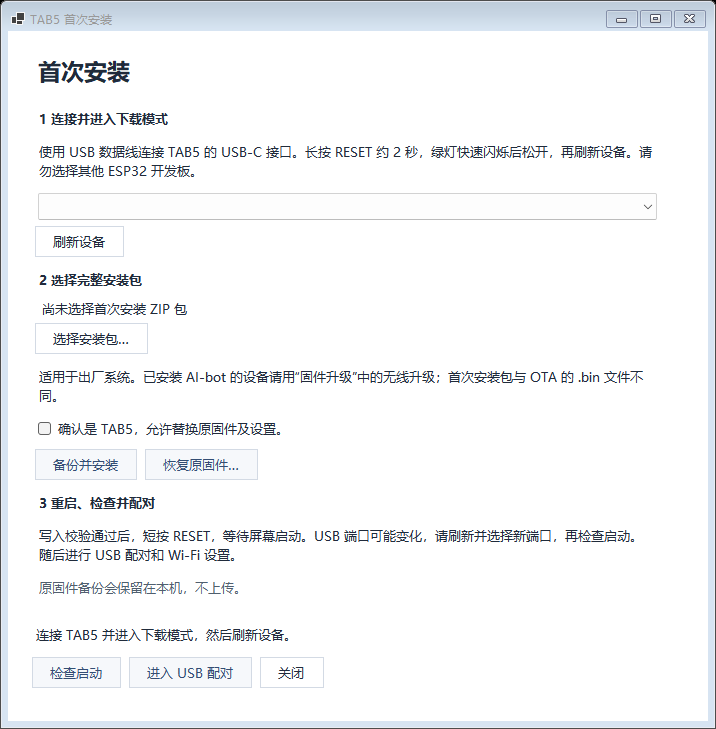
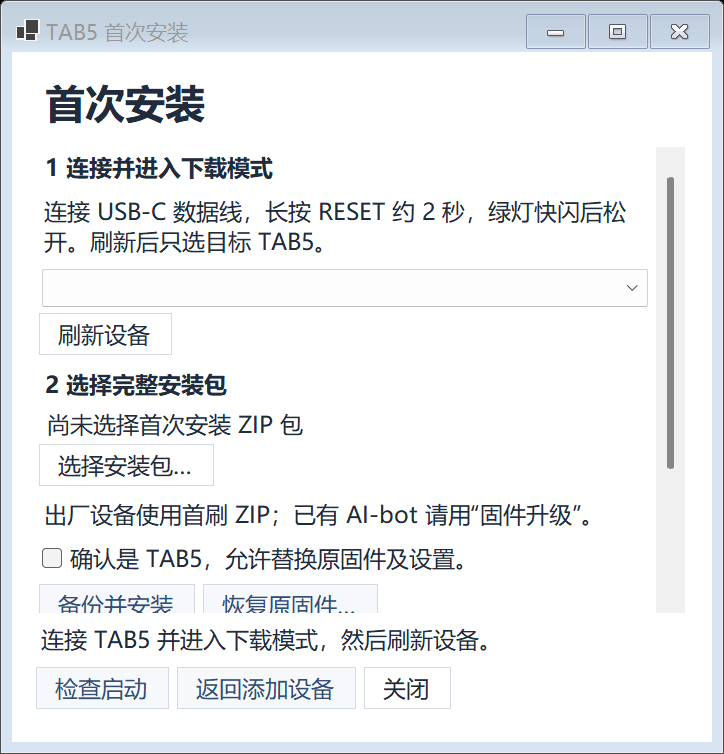
docs(release): publish 0.6.13 downloads and verified acceptance boundaries

Changed region(s): [[0.0, 0.0, 1.0, 0.9959], [0.8911, 0.2414, 0.9525, 0.6337], [0.3994, 0.6639, 0.7989, 0.6941]]

diff --git a/scripts/check_public_content.py b/scripts/check_public_content.py
@@ -158,6 +158,7 @@ REVIEWED_PRODUCT_MEDIA = frozenset({
     "docs/assets/product-intro/AI-bot-cover.png",
     "docs/assets/product-intro/AI-bot-cover-4x3.png",
     "docs/assets/product-intro/AI-bot-cover-3x4.png",
+    "docs/assets/product-intro/AI-bot-onboarding-cover.png",
 })
 
 REVIEWED_PET_MEDIA = frozenset({

diff --git a/README.en.md b/README.en.md
@@ -4,9 +4,9 @@
 
 Beyond work, AI-bot serves as a desk clock and information display for weather, stocks, music and computer activity. Optional daily painting and calligraphy collections turn the TAB5 into an art display during quieter moments.
 
-[Complete download center](DOWNLOADS.en.md) · [Downloads and device pairing](#downloads-and-device-pairing) · [Installation guide](docs/INSTALL.zh.md) · [Release highlights and details](docs/RELEASE-0.6.12.md) · [简体中文](README.md)
+[Complete download center](DOWNLOADS.en.md) · [Downloads and device pairing](#downloads-and-device-pairing) · [Installation guide](docs/INSTALL.zh.md) · [Release highlights and details](docs/RELEASE-0.6.13.md) · [简体中文](README.md)
 
-This release: Windows **0.6.12**, Mac **0.6.11**, TAB5 **0.2.282-ui**, ESP8266 **0.5.7**. Windows refines account buttons and centers the TAB5 preview; TAB5 improves system alerts and diagnostic details. See [release details](docs/RELEASE-0.6.12.md).
+This release: both Windows and Mac bridges are **0.6.13**, with concise setup hints, a compact Add Device form and direct USB Pairing after adding TAB5 on Mac. TAB5 **0.2.282-ui** and ESP8266 **0.5.7** are unchanged. See [release details](docs/RELEASE-0.6.13.md).
 
 ## Choose your desktop display
 
@@ -126,8 +126,8 @@ Configure up to four app/folder launchers in Windows Device Center → TAB5 → 
 <!-- downloads:start -->
 | Use | Version | Download | SHA-256 |
 | --- | --- | --- | --- |
-| Windows bridge · Windows 10/11 x64 | 0.6.12 | [Download · 30 MiB](https://github.com/yaoyouzhong/AI-bot/releases/download/v0.6.12/AI-bot-bridge-v0.6.12-windows-x64-setup.exe) | [SHA-256](https://github.com/yaoyouzhong/AI-bot/releases/download/v0.6.12/SHA256SUMS.txt) |
-| Mac bridge · macOS 13+ / Apple Silicon | 0.6.11 | [Download · 17 MiB](https://github.com/yaoyouzhong/AI-bot/releases/download/v0.6.11/AI-bot-bridge-v0.6.11-macos-arm64.zip) | [SHA-256](https://github.com/yaoyouzhong/AI-bot/releases/download/v0.6.11/SHA256SUMS.txt) |
+| Windows bridge · Windows 10/11 x64 | 0.6.13 | [Download · 30 MiB](https://github.com/yaoyouzhong/AI-bot/releases/download/v0.6.13/AI-bot-bridge-v0.6.13-windows-x64-setup.exe) | [SHA-256](https://github.com/yaoyouzhong/AI-bot/releases/download/v0.6.13/SHA256SUMS.txt) |
+| Mac bridge · macOS 13+ / Apple Silicon | 0.6.13 | [Download · 17 MiB](https://github.com/yaoyouzhong/AI-bot/releases/download/v0.6.13/AI-bot-bridge-v0.6.13-macos-arm64.zip) | [SHA-256](https://github.com/yaoyouzhong/AI-bot/releases/download/v0.6.13/SHA256SUMS.txt) |
 | ESP8266 display · first install / upgrade | 0.5.7 | [Download · 30 MiB](https://github.com/yaoyouzhong/AI-bot/releases/download/esp8266-v0.5.7/AI-bot-esp8266-0.5.7-firmware.zip) | [SHA-256](https://github.com/yaoyouzhong/AI-bot/releases/download/esp8266-v0.5.7/SHA256SUMS.txt) |
 | TAB5 · first install from factory system | 0.2.282-ui | [Download · 5 MiB](https://github.com/yaoyouzhong/AI-bot/releases/download/tab5-v0.2.282-ui/AI-bot-tab5-0.2.282-ui-first-install.zip) | [SHA-256](https://github.com/yaoyouzhong/AI-bot/releases/download/tab5-v0.2.282-ui/SHA256SUMS.txt) |
 | TAB5 · upgrade existing AI-bot | 0.2.282-ui | [Download · 5 MiB](https://github.com/yaoyouzhong/AI-bot/releases/download/tab5-v0.2.282-ui/AI-bot-tab5-0.2.282-ui-upgrade.zip) | [SHA-256](https://github.com/yaoyouzhong/AI-bot/releases/download/tab5-v0.2.282-ui/SHA256SUMS.txt) |
@@ -156,9 +156,11 @@ For later updates, open Windows Device Center → Bridge Settings → Software/F
 
 ## Further reading
 
-- **Use and updates:** [Feature gallery](docs/FEATURES.zh.md) · [Changes by component](docs/RELEASE-0.6.12.md) · [Changelog](CHANGELOG.md) · [TAB5 hardware acceptance](docs/development/TAB5-CONTROL-215-ACCEPTANCE-20261017.md)
+- **Use and updates:** [Feature gallery](docs/FEATURES.zh.md) · [Changes by component](docs/RELEASE-0.6.13.md) · [Changelog](CHANGELOG.md) · [TAB5 hardware acceptance](docs/development/TAB5-CONTROL-215-ACCEPTANCE-20261017.md)
 - **Data and privacy:** [Data sources](docs/DATA_SOURCES.md) · [Quota-history boundaries](docs/QUOTA_TRENDS.md). Activity statistics extract local status and token metadata; account quotas come from provider interfaces and are counted separately.
 - **Development and source:** [Development guide](docs/DEVELOPMENT.md) · [Protocol](docs/PROTOCOL.md) · [TAB5 source and builds](docs/development/TAB5-SOURCE.md) · [Independent component versions](docs/COMPONENT-VERSIONS.md)
 - **Materials and licenses:** [Provenance](PROVENANCE.md) · [Third-party notices](THIRD_PARTY_NOTICES.md) · [Screenshots and art credits](docs/SCREENSHOTS.md) · [Optional pet animation pack](docs/assets/pet/README.md)
 
 Own code, including TAB5, is [MIT licensed](LICENSE). Third-party components and artworks retain their original licenses. This independent project has no affiliation with the named AI providers. [Report issues](https://github.com/yaoyouzhong/AI-bot/issues) with your platform, versions, hardware and reproduction steps; remove credentials and private logs.
+
+[First-device setup video](docs/ONBOARDING_VIDEO.md): Windows onboarding and the Mac USB Pairing path.

diff --git a/README.md b/README.md
@@ -4,9 +4,9 @@
 
 工作之外，它也是桌边的时钟与信息看板，按需展示天气、行情、音乐和电脑运行状态。TAB5 还可搭配每日名画、每日书法图库，让屏幕在闲暇时展示艺术作品。
 
-[完整下载中心](DOWNLOADS.md) · [下载与搭配](#下载与搭配) · [安装指南](docs/INSTALL.zh.md) · [本次更新明细](docs/RELEASE-0.6.12.md) · [English](README.en.md)
+[完整下载中心](DOWNLOADS.md) · [下载与搭配](#下载与搭配) · [安装指南](docs/INSTALL.zh.md) · [本次更新明细](docs/RELEASE-0.6.13.md) · [English](README.en.md)
 
-本次更新：Windows **0.6.12**、Mac **0.6.11**、TAB5 **0.2.282-ui**、ESP8266 **0.5.7**。Windows 调整账号数据按钮与 TAB5 预览居中；TAB5 改善系统告警和诊断详情。见[本轮说明](docs/RELEASE-0.6.12.md)。
+本次更新：Windows 与 Mac 桥接均为 **0.6.13**，精简首次接入提示、优化添加设备布局，并修复 Mac 新增 TAB5 后的 USB 配对入口。TAB5 **0.2.282-ui**、ESP8266 **0.5.7** 保持不变。见[本轮说明](docs/RELEASE-0.6.13.md)。
 
 ## 选择适合你的桌面屏幕
 
@@ -126,8 +126,8 @@ https://github.com/user-attachments/assets/219d758f-e3f9-4bf8-be64-641d01834922
 <!-- downloads:start -->
 | 用途 | 版本 | 下载 | SHA-256 |
 | --- | --- | --- | --- |
-| Windows 桥接 · Windows 10/11 x64 | 0.6.12 | [下载 · 30 MiB](https://github.com/yaoyouzhong/AI-bot/releases/download/v0.6.12/AI-bot-bridge-v0.6.12-windows-x64-setup.exe) | [SHA-256](https://github.com/yaoyouzhong/AI-bot/releases/download/v0.6.12/SHA256SUMS.txt) |
-| Mac 桥接 · macOS 13+ / Apple Silicon | 0.6.11 | [下载 · 17 MiB](https://github.com/yaoyouzhong/AI-bot/releases/download/v0.6.11/AI-bot-bridge-v0.6.11-macos-arm64.zip) | [SHA-256](https://github.com/yaoyouzhong/AI-bot/releases/download/v0.6.11/SHA256SUMS.txt) |
+| Windows 桥接 · Windows 10/11 x64 | 0.6.13 | [下载 · 30 MiB](https://github.com/yaoyouzhong/AI-bot/releases/download/v0.6.13/AI-bot-bridge-v0.6.13-windows-x64-setup.exe) | [SHA-256](https://github.com/yaoyouzhong/AI-bot/releases/download/v0.6.13/SHA256SUMS.txt) |
+| Mac 桥接 · macOS 13+ / Apple Silicon | 0.6.13 | [下载 · 17 MiB](https://github.com/yaoyouzhong/AI-bot/releases/download/v0.6.13/AI-bot-bridge-v0.6.13-macos-arm64.zip) | [SHA-256](https://github.com/yaoyouzhong/AI-bot/releases/download/v0.6.13/SHA256SUMS.txt) |
 | ESP8266 小屏 · 首刷／升级通用 | 0.5.7 | [下载 · 30 MiB](https://github.com/yaoyouzhong/AI-bot/releases/download/esp8266-v0.5.7/AI-bot-esp8266-0.5.7-firmware.zip) | [SHA-256](https://github.com/yaoyouzhong/AI-bot/releases/download/esp8266-v0.5.7/SHA256SUMS.txt) |
 | TAB5 · 出厂系统首次安装 | 0.2.282-ui | [下载 · 5 MiB](https://github.com/yaoyouzhong/AI-bot/releases/download/tab5-v0.2.282-ui/AI-bot-tab5-0.2.282-ui-first-install.zip) | [SHA-256](https://github.com/yaoyouzhong/AI-bot/releases/download/tab5-v0.2.282-ui/SHA256SUMS.txt) |
 | TAB5 · 已有 AI-bot 升级 | 0.2.282-ui | [下载 · 5 MiB](https://github.com/yaoyouzhong/AI-bot/releases/download/tab5-v0.2.282-ui/AI-bot-tab5-0.2.282-ui-upgrade.zip) | [SHA-256](https://github.com/yaoyouzhong/AI-bot/releases/download/tab5-v0.2.282-ui/SHA256SUMS.txt) |
@@ -154,9 +154,11 @@ https://github.com/user-attachments/assets/219d758f-e3f9-4bf8-be64-641d01834922
 
 以后从 Windows「设备中心 → 桥接设置 → 软件固件」打开「**软件与固件更新**」查看三个组件各自的更新明细、下载并校验，再按提示安装。启用「自动检查并提醒」后会通知新版本，安装仍由你确认。图库按需单独下载与导入。[完整更新步骤](docs/UPDATES.md)
 
+[首次添加设备短片](docs/ONBOARDING_VIDEO.md)：Windows 接入入口与 Mac USB 配对路径。
+
 ## 更多资料
 
-- **使用与更新：** [完整功能图鉴](docs/FEATURES.zh.md) · [本次更新明细](docs/RELEASE-0.6.12.md) · [更新日志](CHANGELOG.zh.md) · [TAB5 真机验收](docs/development/TAB5-CONTROL-215-ACCEPTANCE-20261017.md)
+- **使用与更新：** [完整功能图鉴](docs/FEATURES.zh.md) · [本次更新明细](docs/RELEASE-0.6.13.md) · [更新日志](CHANGELOG.zh.md) · [TAB5 真机验收](docs/development/TAB5-CONTROL-215-ACCEPTANCE-20261017.md)
 - **数据与隐私：** [数据来源](docs/DATA_SOURCES.md) · [额度趋势统计边界](docs/QUOTA_TRENDS.md)。活动统计提取本地状态与 Token 元数据，账户额度来自厂商接口，两者分开统计。
 - **开发与源码：** [开发说明](docs/DEVELOPMENT.md) · [协议](docs/PROTOCOL.md) · [TAB5 源码与构建](docs/development/TAB5-SOURCE.md) · [组件独立版本](docs/COMPONENT-VERSIONS.md)
 - **素材与许可：** [来源记录](PROVENANCE.md) · [第三方声明](THIRD_PARTY_NOTICES.md) · [截图与作品署名](docs/SCREENSHOTS.md) · [可选桌宠动画包](docs/assets/pet/README.md)

diff --git a/docs/FEATURES.zh.md b/docs/FEATURES.zh.md
@@ -1,6 +1,6 @@
 # 功能与界面图鉴
 
-当前 Windows **0.6.12**、Mac **0.6.11**、TAB5 **0.2.282-ui**、ESP8266 **0.5.7**。两类图库各 366 件；公开内容版次均为 **2026.1**，提供标准与高清完整版；[内部包编号保留](GALLERY-VERSIONS.md)。[本版范围与验收](RELEASE-0.6.12.md) · [高清图库安装](GALLERY-HD.md) · [截图来源](SCREENSHOTS.md)
+当前 Windows **0.6.13**、Mac **0.6.13**、TAB5 **0.2.282-ui**、ESP8266 **0.5.7**。两类图库各 366 件；公开内容版次均为 **2026.1**，提供标准与高清完整版；[内部包编号保留](GALLERY-VERSIONS.md)。[本版范围与验收](RELEASE-0.6.13.md) · [高清图库安装](GALLERY-HD.md) · [截图来源](SCREENSHOTS.md)
 
 AI-bot 把 AI 任务状态、账户额度和日常信息放到桌边。先看两类设备的整体用法，再看各自重点，完整页面可按场景展开。
 
@@ -320,7 +320,7 @@ Windows 右键托盘打开菜单：**设备中心**是统一入口，**设备预
 
 ### Mac 原生界面 / Native Mac interfaces
 
-Mac **0.6.11 正式版**从菜单栏 AI-bot 图标进入：左键打开设备中心，右键展开下方菜单。**设备预览**在双设备时先选择 ESP8266 或 TAB5；后面的设备分组提供各自的设置入口。Windows 从托盘进入，以上 Windows 窗口保留各自平台标注。[Mac 安装与配对](INSTALL.zh.md#mac)
+Mac **0.6.13 正式版**从菜单栏 AI-bot 图标进入：左键打开设备中心，右键展开下方菜单。**设备预览**在双设备时先选择 ESP8266 或 TAB5；后面的设备分组提供各自的设置入口。Windows 从托盘进入，以上 Windows 窗口保留各自平台标注。[Mac 安装与配对](INSTALL.zh.md#mac)
 
 <a href="assets/screens/mac-menu.png"><img src="assets/screens/mac-menu.png" width="250" alt="Mac 原生 AI-bot 菜单：设备中心、设备预览与双设备分组，演示数据"></a>
 
@@ -421,11 +421,11 @@ Windows 0.6.9 + TAB5 217 provide volume/mute/lock, actual lock state and four lo
 | TAB5 0.2.282-ui | 电脑控制、十网络、横屏翻转、时钟、图库、日程与存储 | 282 的系统告警、诊断、检测详情与返回操作经用户实机确认；217 精确镜像启动、215 控制／锁屏／无闪动及拔 USB 后 Wi-Fi 音量获确认；210 的日程、内存和重启验收沿用；满额腾位、BLE 整包 OTA 和长期运行不扩大验收结论。 |
 | macOS 13+ Apple Silicon | 菜单栏、镜像、ESP8266 与对应平台功能 | CI 测试／构建通过；现支持 TAB5 连接、控制、预览、固件和图库管理；授权及语音来源按平台区分。Intel Mac 未验证。 |
 
-[发布明细](RELEASE-0.6.12.md) · [截图来源与复现](SCREENSHOTS.md) · [开发参考](REFERENCE.zh.md)
+[发布明细](RELEASE-0.6.13.md) · [截图来源与复现](SCREENSHOTS.md) · [开发参考](REFERENCE.zh.md)
 
 ## English summary
 
-AI-bot puts AI activity, account quotas and everyday information on a desktop display. This guide covers Windows 0.6.12, Mac 0.6.11, ESP8266 0.5.7 and TAB5 0.2.282-ui, plus two independent 366-work annual collections. Browse past works on the computer; select TF storage explicitly for complete-library caching and read complete long originals on the supporting firmware. Start with the device overview, then follow the matching device tour.
+AI-bot puts AI activity, account quotas and everyday information on a desktop display. This guide covers Windows 0.6.13, Mac 0.6.13, ESP8266 0.5.7 and TAB5 0.2.282-ui, plus two independent 366-work annual collections. Browse past works on the computer; select TF storage explicitly for complete-library caching and read complete long originals on the supporting firmware. Start with the device overview, then follow the matching device tour.
 
 **TAB5:** overview and the four main navigation tabs come first. Highlights cover Codex Direct and task reading, Annual Dots and the floral calendar, and landscape/portrait art. Expand the grouped galleries for activity/history, voice/camera drafts, quotas and API balances, current/hourly/seven-day weather, markets, computer metrics, music, nine clock faces, calendar, pets and all settings panels, including independent Storage Management. Voice results and camera attachments enter drafts; sending is explicit. Art screensavers support portrait rotation; normal system pages remain landscape and can automatically flip 180 degrees with touch following. Art collections are optional downloads.
 

diff --git a/docs/development/RELEASE-0613-CLOSEOUT-20261028.md b/docs/development/RELEASE-0613-CLOSEOUT-20261028.md
@@ -1,0 +1,34 @@
+# 0.6.13 双平台发布验证
+
+2026-10-28，接续首次设备接入任务。正式发布：[AI-bot v0.6.13](https://github.com/yaoyouzhong/AI-bot/releases/tag/v0.6.13)。北京时间 13:06 发布，Windows x64 与 Apple Silicon Mac 同步更新；TAB5 0.2.282-ui、ESP8266 0.5.7 和图库沿用现有附件。
+
+## 源码与安装包
+
+- 带注释的标签 `v0.6.13` 指向 `031b4f06197be876098aa2d55142d6c83f23bd53`，对应已合并 PR #10。
+- [CI 40632246118](https://github.com/yaoyouzhong/AI-bot/actions/runs/40632246118)：Windows、macOS（含完整 XCTest）和固件全部成功。
+- [Release 40632266014](https://github.com/yaoyouzhong/AI-bot/actions/runs/40632266014)：验证、Windows 包、Mac 包、草稿上传成功；固件打包按本轮范围跳过。
[2 lines of base64/hex data omitted]
+- 已验证的安装包字节保持不变；后续仅同步文档、截图、下载索引和媒体证据。
+
+## Windows Sandbox
+
[1 lines of base64/hex data omitted]
+
+实际启动安装后的程序，看到空设备中心；点击添加首台设备，打开 TAB5 首装窗口，再关闭回到添加窗口。无 USB 时验证禁用，首装入口、帮助、状态与关闭入口可见。本轮未连接或改写任何实体设备。
+
+安装日志同时报告 `Computer unlock setup incomplete`。解锁配置、无运行时的自动下载补装链路不计通过；本次未运行 Mac 安装包，Mac 原生界面和源码检查沿用已有记录。真实首刷、新配对和实体屏首次显示未重验，理由及此前结果见[首次接入记录](FIRST-RUN-20261028.md)。
+
+本地证据位于发布 worktree 的 `artifacts/release-0613/`：`sandbox-results/` 含安装日志、真实退出码、安装版本、DLL 摘要和隔离控件图；`downloads/` 与 `verified-downloads/` 保存已校验包。
+
+## 公开内容与媒体
+
+下载索引 refresh/sync/check 通过；全部七类包的公开地址、SHA 清单和大小，以及高清图库 manifest 一致。中英文主页、下载中心、安装指南、组件版本、功能图鉴、更新步骤与截图来源同步为实际发布范围。两张 Windows 接入图保留原生控件像素，Mac 旧图保留原始来源标注。
+
+20 秒接入补充短片及可复现工程已作为 Release 附件发布；它使用 Windows 原生隔离控件和明确标注的 Mac 路径示意。原项目介绍片保留在主页和独立观看入口。
+
+本轮 Chrome 主页和独立页播放器持续缓冲，时间为 0、readyState 为 0；备用浏览器也复现缓冲。原项目视频公开链接的小 Range 返回 HTTP 206、video/mp4 和正确总大小，但这不证明实际播放。短片 Release 直接地址被浏览器按下载处理／拦截导航，不计网页播放通过。播放、暂停、拖动、结束和重播仍待补验；不能把文件解码、上传或 HTTP 成功替代这些结果。
+
+## English
+
+Windows and Apple Silicon Mac 0.6.13 were published from commit `031b4f0`; CI and both desktop package jobs passed. Exact package hashes, Mac archive metadata/licenses, Windows Sandbox installation and installed status/onboarding checks passed. Real Windows navigation through Add TAB5 and First Install was exercised without hardware writes. Unlock setup remained incomplete; automatic runtime download, this Mac package's execution and new physical first-flash/pair/display acceptance are not claimed. Public downloads and bilingual documentation were reconciled. Both browser surfaces still buffered the retained project video, so full playback acceptance remains open despite successful HTTP Range verification.

diff --git a/docs/COMPONENT-VERSIONS.md b/docs/COMPONENT-VERSIONS.md
@@ -2,18 +2,18 @@
 
 桥接、ESP8266 和 TAB5 分别更新，不要求三个版本号相同。只修改一个组件时，不重编号、重发或要求用户重刷另外两个组件。历史 `v0.5.0` 标签与已发布文件保持不变。
 
-2026-10-27 本轮：Windows **0.6.12**、Mac **0.6.11**、TAB5 **0.2.282-ui**、ESP8266 **0.5.7**，图库沿用既有版本。下载索引按实际附件刷新。见[本轮说明](RELEASE-0.6.12.md)。
+2026-10-28 本轮：Windows **0.6.13**、Mac **0.6.13**、TAB5 **0.2.282-ui**、ESP8266 **0.5.7**，图库沿用既有版本。下载索引按实际附件刷新。见[本轮说明](RELEASE-0.6.13.md)。
 
 ## 版本来源
 
 | 组件 | 当前版本 | 版本文件 | 正式组件标签 |
 | --- | --- | --- | --- |
-| Windows 桥接 | 0.6.12 | 根目录 `VERSION` | `v0.6.12` |
-| Mac 桥接 | 0.6.11 | 根目录 `VERSION` | `v0.6.11` |
+| Windows 桥接 | 0.6.13 | 根目录 `VERSION` | `v0.6.13` |
+| Mac 桥接 | 0.6.13 | 根目录 `VERSION` | `v0.6.13` |
 | ESP8266 固件 | 0.5.7 | `firmware/VERSION` | `esp8266-v0.5.7` |
 | TAB5 固件 | 0.2.282-ui | `versions/TAB5` | `tab5-v0.2.282-ui` |
 
-表中登记各平台实际已发布版本；后续版本仍分别编号。`release-manifest.json` 登记每个组件的版本文件、标签前缀与中英文更新日志。桥接源码元数据共用版本线，正式下载按平台实际存在的附件分别取版本；Mac 包含 TAB5 支持，保持已发布的 0.6.11；Windows 本次单独更新。
+表中登记各平台实际已发布版本；后续版本仍分别编号。`release-manifest.json` 登记每个组件的版本文件、标签前缀与中英文更新日志。桥接源码元数据共用版本线，正式下载按平台实际存在的附件分别取版本；本次 Windows 与 Mac 同时发布 0.6.13，后续仍可分别交付。
 
 上一轮 2026-10-16 的范围为桥接 0.6.7、TAB5 0.2.205-ui、ESP8266 0.5.3、标准书法 2026.10.15.1 和两套高清完整图库 2026.10.16。标准名画沿用已有正式下载；不集成浏览器高清音乐封面扩展。构建、打包、公开附件和真机验收分别记录，公开下载索引仅在附件实际发布后刷新。The October 16 delivery covers bridge 0.6.7, TAB5 0.2.205-ui, ESP8266 0.5.3, standard calligraphy 2026.10.15.1 and both optional complete HD collections 2026.10.16. Existing standard painting remains unchanged; the browser music-artwork extension is not integrated. See [scope and acceptance boundaries](RELEASE-0.6.7.md).
 
@@ -21,7 +21,7 @@
 
 `versions/TAB5` 登记待发布镜像版本，不替代独立 TAB5 工程的镜像内版本；发布前核对其应用、sidecar、首刷包与公开源码身份。TAB5 本地候选仍由[固定固件工作流](TAB5-FIRMWARE-WORKFLOW.md)管理。
 
-此前桥接 `0.6.6` 与 TAB5 `0.2.194-ui` 的实际交付保留在[历史说明](RELEASE-0.6.6.md)。本轮范围及验收见 [0.6.12／282 说明](RELEASE-0.6.12.md)，上轮见 [0.6.11／281 说明](RELEASE-0.6.11.md)，此前结果保留在 [0.6.7／205 历史说明](RELEASE-0.6.7.md)。字库随 TAB5 固件安装，年度精选名画与书法各 366 件以独立图文包提供，旧图库保持兼容。The three independently versioned components and optional collections retain separate verification and acceptance records.
+此前桥接 `0.6.6` 与 TAB5 `0.2.194-ui` 的实际交付保留在[历史说明](RELEASE-0.6.6.md)。本轮范围及验收见 [0.6.13 双平台桥接说明](RELEASE-0.6.13.md)，上轮见 [0.6.11／281 说明](RELEASE-0.6.11.md)，此前结果保留在 [0.6.7／205 历史说明](RELEASE-0.6.7.md)。字库随 TAB5 固件安装，年度精选名画与书法各 366 件以独立图文包提供，旧图库保持兼容。The three independently versioned components and optional collections retain separate verification and acceptance records.
 
 桥接与历史组合版的发布展示标题统一使用 `AI-bot v版本号`，例如 `AI-bot v0.6.7`；功能说明放在正文。ESP8266 和 TAB5 保留各自命名方式，固件版本值和新包名不加 `v`。电脑端 Git 发布标签统一为 `vX.Y.Z`；固件保留组件前缀。后续构建物和旧客户端兼容规则见[命名规范](NAMING-CONVENTIONS.md)。
 

diff --git a/docs/RELEASE-0.6.13.md b/docs/RELEASE-0.6.13.md
@@ -9,9 +9,11 @@
 
 ## 验证边界
 
-Windows 接入选择、失败处理、窗口尺寸和缩放已通过隔离检查。Mac 导航修复通过 Release 构建、3034 项独立检查及原生窗口核验；完整 XCTest 由 GitHub macOS CI 执行。本机 Mac Command Line Tools 缺少 XCTest 的失败记录及三类既有编译警告保留在 [Mac 检查记录](development/MAC-ONBOARDING-REVIEW-20261028.md)。
+Windows 接入选择、失败处理、窗口尺寸和缩放已通过隔离检查。Mac 导航修复通过 Release 构建、3034 项独立检查及原生窗口核验；发布提交 `031b4f0` 的 [Windows、macOS、固件 CI](https://github.com/yaoyouzhong/AI-bot/actions/runs/40632246118) 全部成功，完整 XCTest 已由 macOS CI 补验。[双平台打包](https://github.com/yaoyouzhong/AI-bot/actions/runs/40632266014) 也全部成功。本机 Mac Command Line Tools 缺少 XCTest 的失败记录及三类既有编译警告保留在 [Mac 检查记录](development/MAC-ONBOARDING-REVIEW-20261028.md)。
 
-早期 Windows Sandbox 安装结果见[首次接入记录](development/FIRST-RUN-20261028.md)，与本次包的发布验证分开记录。没有备用出厂设备，本轮不重做真实首刷、重新配对或实体屏首次显示验收。Windows 安装器未签名；Mac 仅支持 Apple Silicon、临时签名且未公证。
+本次 0.6.13 安装器经完整下载及 SHA-256 核验，在已准备 .NET Desktop Runtime 的 Windows Sandbox 中安装退出 0，安装后 `--status-once` 与 `--self-test-onboarding` 均退出 0。实际窗口走通空设备中心、添加 TAB5、打开首装页和关闭返回。安装日志同时报告电脑解锁组件配置未完成，因此不计解锁功能通过，也不计无运行时自动下载链路通过。早期证据见[首次接入记录](development/FIRST-RUN-20261028.md)。
+
+Mac ZIP 完整性、版本元数据、许可和完整哈希均通过；本次未在此 Windows 主机上运行 Mac 安装包。没有备用出厂设备，本轮不重做真实首刷、重新配对或实体屏首次显示验收。Windows 安装器未签名；Mac 仅支持 Apple Silicon、临时签名且未公证。
 
 ## English
 
@@ -19,4 +21,6 @@ This release updates both Windows x64 and Apple Silicon Mac bridges. Windows get
 
 TAB5 remains at 0.2.282-ui and ESP8266 at 0.5.7. No firmware update is required for these bridge changes. Exit the old bridge normally before installing and retain settings, pairing and galleries.
 
-Windows isolated onboarding/layout checks and Mac native navigation/UI checks passed. The Mac review also passed its Release build and 3,034 parity checks; GitHub macOS CI runs the full XCTest suite, unavailable in the local Command Line Tools installation. Existing warnings are recorded separately. Earlier Sandbox evidence is distinct from this release's package checks. No spare factory device is available, so physical first flashing, new pairing and first display are not revalidated. Windows remains unsigned and Mac ad-hoc signed, not notarized; Intel Mac is not supported by this package.
+Windows isolated onboarding/layout checks and Mac native navigation/UI checks passed. The Mac review also passed its Release build and 3,034 parity checks. Windows, macOS (including full XCTest), firmware CI and both desktop package jobs passed for release commit `031b4f0`. Existing local Mac toolchain limitations and warnings remain recorded separately.
+
+The exact 0.6.13 Windows installer matches its SHA-256 and installs with exit 0 in Sandbox with the desktop runtime already prepared. Installed status/onboarding checks exit 0, and the empty Device Center → Add TAB5 → First Install → close/return flow was exercised in real windows. Unlock-component setup remained incomplete; neither unlock nor automatic runtime download is counted as passed. The Mac ZIP passes full hash, archive, version and license checks, but was not executed on this Windows host. No spare factory device is available, so physical first flashing, new pairing and first display are not revalidated. Windows remains unsigned and Mac ad-hoc signed, not notarized; Intel Mac is not supported by this package.

diff --git a/DOWNLOADS.en.md b/DOWNLOADS.en.md
@@ -7,8 +7,8 @@ All current stable apps, both device firmware packages and optional artwork coll
 <!-- downloads:start -->
 | Use | Version | Download | SHA-256 |
 | --- | --- | --- | --- |
-| Windows bridge · Windows 10/11 x64 | 0.6.12 | [Download · 30 MiB](https://github.com/yaoyouzhong/AI-bot/releases/download/v0.6.12/AI-bot-bridge-v0.6.12-windows-x64-setup.exe) | [SHA-256](https://github.com/yaoyouzhong/AI-bot/releases/download/v0.6.12/SHA256SUMS.txt) |
-| Mac bridge · macOS 13+ / Apple Silicon | 0.6.11 | [Download · 17 MiB](https://github.com/yaoyouzhong/AI-bot/releases/download/v0.6.11/AI-bot-bridge-v0.6.11-macos-arm64.zip) | [SHA-256](https://github.com/yaoyouzhong/AI-bot/releases/download/v0.6.11/SHA256SUMS.txt) |
+| Windows bridge · Windows 10/11 x64 | 0.6.13 | [Download · 30 MiB](https://github.com/yaoyouzhong/AI-bot/releases/download/v0.6.13/AI-bot-bridge-v0.6.13-windows-x64-setup.exe) | [SHA-256](https://github.com/yaoyouzhong/AI-bot/releases/download/v0.6.13/SHA256SUMS.txt) |
+| Mac bridge · macOS 13+ / Apple Silicon | 0.6.13 | [Download · 17 MiB](https://github.com/yaoyouzhong/AI-bot/releases/download/v0.6.13/AI-bot-bridge-v0.6.13-macos-arm64.zip) | [SHA-256](https://github.com/yaoyouzhong/AI-bot/releases/download/v0.6.13/SHA256SUMS.txt) |
 | ESP8266 display · first install / upgrade | 0.5.7 | [Download · 30 MiB](https://github.com/yaoyouzhong/AI-bot/releases/download/esp8266-v0.5.7/AI-bot-esp8266-0.5.7-firmware.zip) | [SHA-256](https://github.com/yaoyouzhong/AI-bot/releases/download/esp8266-v0.5.7/SHA256SUMS.txt) |
 | TAB5 · first install from factory system | 0.2.282-ui | [Download · 5 MiB](https://github.com/yaoyouzhong/AI-bot/releases/download/tab5-v0.2.282-ui/AI-bot-tab5-0.2.282-ui-first-install.zip) | [SHA-256](https://github.com/yaoyouzhong/AI-bot/releases/download/tab5-v0.2.282-ui/SHA256SUMS.txt) |
 | TAB5 · upgrade existing AI-bot | 0.2.282-ui | [Download · 5 MiB](https://github.com/yaoyouzhong/AI-bot/releases/download/tab5-v0.2.282-ui/AI-bot-tab5-0.2.282-ui-upgrade.zip) | [SHA-256](https://github.com/yaoyouzhong/AI-bot/releases/download/tab5-v0.2.282-ui/SHA256SUMS.txt) |

diff --git a/DOWNLOADS.md b/DOWNLOADS.md
@@ -7,8 +7,8 @@
 <!-- downloads:start -->
 | 用途 | 版本 | 下载 | SHA-256 |
 | --- | --- | --- | --- |
-| Windows 桥接 · Windows 10/11 x64 | 0.6.12 | [下载 · 30 MiB](https://github.com/yaoyouzhong/AI-bot/releases/download/v0.6.12/AI-bot-bridge-v0.6.12-windows-x64-setup.exe) | [SHA-256](https://github.com/yaoyouzhong/AI-bot/releases/download/v0.6.12/SHA256SUMS.txt) |
-| Mac 桥接 · macOS 13+ / Apple Silicon | 0.6.11 | [下载 · 17 MiB](https://github.com/yaoyouzhong/AI-bot/releases/download/v0.6.11/AI-bot-bridge-v0.6.11-macos-arm64.zip) | [SHA-256](https://github.com/yaoyouzhong/AI-bot/releases/download/v0.6.11/SHA256SUMS.txt) |
+| Windows 桥接 · Windows 10/11 x64 | 0.6.13 | [下载 · 30 MiB](https://github.com/yaoyouzhong/AI-bot/releases/download/v0.6.13/AI-bot-bridge-v0.6.13-windows-x64-setup.exe) | [SHA-256](https://github.com/yaoyouzhong/AI-bot/releases/download/v0.6.13/SHA256SUMS.txt) |
+| Mac 桥接 · macOS 13+ / Apple Silicon | 0.6.13 | [下载 · 17 MiB](https://github.com/yaoyouzhong/AI-bot/releases/download/v0.6.13/AI-bot-bridge-v0.6.13-macos-arm64.zip) | [SHA-256](https://github.com/yaoyouzhong/AI-bot/releases/download/v0.6.13/SHA256SUMS.txt) |
 | ESP8266 小屏 · 首刷／升级通用 | 0.5.7 | [下载 · 30 MiB](https://github.com/yaoyouzhong/AI-bot/releases/download/esp8266-v0.5.7/AI-bot-esp8266-0.5.7-firmware.zip) | [SHA-256](https://github.com/yaoyouzhong/AI-bot/releases/download/esp8266-v0.5.7/SHA256SUMS.txt) |
 | TAB5 · 出厂系统首次安装 | 0.2.282-ui | [下载 · 5 MiB](https://github.com/yaoyouzhong/AI-bot/releases/download/tab5-v0.2.282-ui/AI-bot-tab5-0.2.282-ui-first-install.zip) | [SHA-256](https://github.com/yaoyouzhong/AI-bot/releases/download/tab5-v0.2.282-ui/SHA256SUMS.txt) |
 | TAB5 · 已有 AI-bot 升级 | 0.2.282-ui | [下载 · 5 MiB](https://github.com/yaoyouzhong/AI-bot/releases/download/tab5-v0.2.282-ui/AI-bot-tab5-0.2.282-ui-upgrade.zip) | [SHA-256](https://github.com/yaoyouzhong/AI-bot/releases/download/tab5-v0.2.282-ui/SHA256SUMS.txt) |

diff --git a/docs/ONBOARDING_VIDEO.md b/docs/ONBOARDING_VIDEO.md
@@ -1,0 +1,22 @@
+# 首次添加设备短片 / First-device setup supplement
+
+20 秒说明本次 Windows 与 Mac 桥接的接入变化，作为[完整项目介绍片](PRODUCT_VIDEO.md)的补充。Windows 画面来自 0.6.13 原生隔离控件；Mac 使用功能路径示意，不冒充窗口录屏。没有对设备执行刷机或配对。
+
+![首次添加设备](assets/product-intro/AI-bot-onboarding-cover.png)
+
+[观看／下载 MP4](https://github.com/yaoyouzhong/AI-bot/releases/download/v0.6.13/AI-bot-onboarding-20261028.mp4) · [可复现工程](https://github.com/yaoyouzhong/AI-bot/releases/download/v0.6.13/AI-bot-onboarding-source-20261028.zip) · [校验清单](https://github.com/yaoyouzhong/AI-bot/releases/download/v0.6.13/MEDIA-SHA256SUMS.txt)
+
+| 时间 | 内容 |
+| --- | --- |
+| 0–5 秒 | 选择已有 AI-bot 或出厂设备入口 |
+| 5–10 秒 | Windows 验证并添加、USB 选择保留与失败清理 |
+| 10–15 秒 | TAB5 备份、安装、检查启动与返回添加 |
+| 15–20 秒 | Mac 新增 TAB5 自动进入 USB 配对 |
+
+原生截图源码为 `3a9ebfb`。脚本、文案与声音原创，采用 MIT；系统字体不随工程分发。画面原像素和许可摘要登记于 `licenses/materials.json`。本地完整解码、2 fps 联系表及转场静帧已检查；实际浏览器播放与主观听感另行记录。
+
[1 lines of base64/hex data omitted]
+
[1 lines of base64/hex data omitted]
+
+This 20-second bilingual supplement explains the Windows/Mac onboarding update. Windows uses native isolated WinForms captures; Mac is explicitly a navigation diagram. It preserves the whole-project film and does not claim hardware flashing or pairing. Rendering code, text and synthesized audio are original MIT work; system fonts are not redistributed. Full local decoding and visual still review are separate from browser playback and subjective listening.
